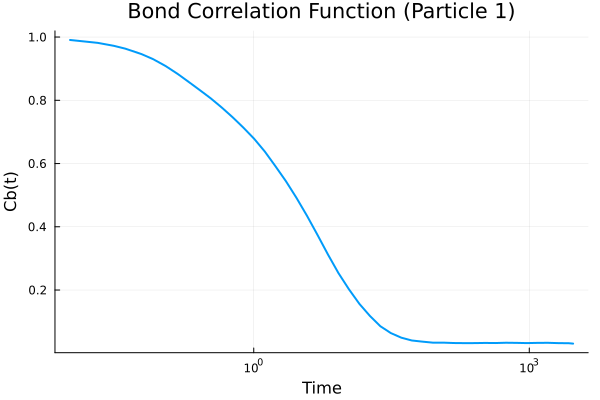
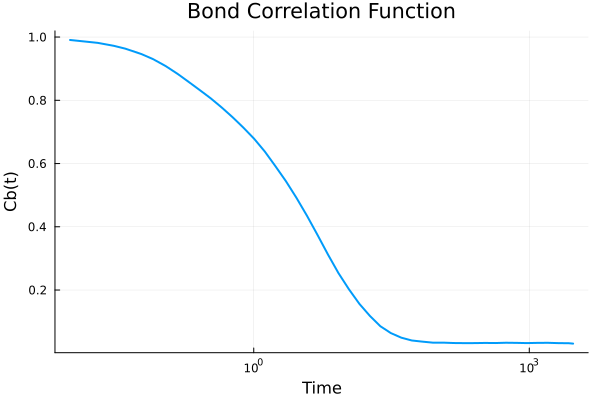
improve docs

Changed region(s): [[0.21, 0.0, 0.87, 0.06]]

diff --git a/docs/src/examples.md b/docs/src/examples.md
@@ -18,7 +18,27 @@ filepath = joinpath(dirname(pathof(SimulationAnalysis)), "..", "test", "data", "
 # construct a Simulation object manually.
 sim = SimulationAnalysis.read_continuously_hard_sphere_simulation(filepath; time_origins=10)
 dt = sim.t_array[2] - sim.t_array[1]
+display(sim)
+println("The number of saved time frames is equal to $(length(sim.t_array)).")
 ```
+```
+This is a SingleComponentSimulation.
+It contains
+N: 1000
+Ndims: 3
+r_array: Array{Float64, 3}
+v_array: Array{Float64, 3}
+F_array: Array{Float64, 3}
+D_array: Vector{Float64}
+t_array: Vector{Float64}
+box_sizes: Vector{Float64}
+dt_array: Vector{Int64}
+t1_t2_pair_array: Vector{Matrix{Int64}}
+filepath: C:\Users\.julia\dev\SimulationAnalysis\src\..\test\data\test_trajectory.h5
+The number of saved time frames is equal to 430.
+```
+
+So as we can see, we have loaded a simulation object of 1000 particles with 430 saved frames, at the time points given by `t_array`.
 
 ---
 
@@ -58,8 +78,10 @@ These functions are used for analyzing the structure and dynamics in reciprocal 
 First, we need to construct the k-space vectors.
 
 ```julia
+# Use only wave vectors with a length between 0 and 10
+kbounds = (0.0, 10.0)
 # Construct the k-space vectors
-kspace = SimulationAnalysis.construct_k_space(sim, (0.0, 10.0); kfactor=1)
+kspace = SimulationAnalysis.construct_k_space(sim, kbounds)
 ```
 ```
 This is a SimulationAnalysis.KSpace{3, SimulationAnalysis.SingleComponentSimulation, OffsetArrays.OffsetArray{Int64, 3, Array{Int64, 3}}}.
@@ -71,7 +93,9 @@ k_array: Matrix{Float64}
 kfactor: 1
 cartesian_to_linear: OffsetArrays.OffsetArray{Int64, 3, Array{Int64, 3}}
 ```
-We can compute the corresponding density modes:
+We can compute the corresponding density modes. These are used to construct scattering functions. They are defines as
+$\rho(k,t)=\sum_j \exp(i \mathbf{k}\cdot\mathbf{r}_j),$
+where the index $j$ runs over all particles.
 ```julia
 density_modes = SimulationAnalysis.find_density_modes(sim, kspace; verbose=false)
 ```
@@ -84,7 +108,7 @@ SingleComponentDensityModes with real and imaginary parts of size (430, 2418).
 The structure factor is the Fourier transform of the radial distribution function and describes the static correlations in the system.
 
 ```julia
-# Calculate the structure factor for a specific k-range
+# Calculate the structure factor averaged over a specific shell in kspace
 S_k = SimulationAnalysis.find_structure_factor(sim; kmin=2.0, kmax=2.4)
 
 println("Structure factor calculated: ", S_k)
@@ -106,6 +130,7 @@ plot(k_sample_arr, S_k,
     lw=2
 )
 ```
+The code above computes the structure factor for each $k_i$ in `k_sample_arr`, averaged over all `k\in (k_i - k_binwidth/2, k_i + k_binwidth/2)`. It produces the following plot:
 
 ![Sk](plots/Sk.png)
 
@@ -133,6 +158,8 @@ plot(dt * sim.dt_array[2:end], isf[2:end],
 )
 ```
 ![Fkt](plots/Fkt.png)
+
+We could have used the precomputed density modes for performance here, see the API documentation.
 
 ### Self-Intermediate Scattering Function (Self-ISF)
 
@@ -178,7 +205,7 @@ Absolute distance neighbor lists calculated for 430 time steps.
 
 This method uses Voronoi tessellation to determine neighbors. 
 
-THIS IS CURRENTLY BROKEN ON JULIA 1.11 (QUICKHULL.jl segfaults)
+THIS IS CURRENTLY BROKEN IN 3D ON JULIA 1.11 (Quickhull.jl segfaults)
 
 ```julia
 # Find neighbor lists using Voronoi tessellation
@@ -196,7 +223,7 @@ Voronoi neighbor lists calculated for 430 time steps.
 The bond correlation function is used to study the dynamics of local structure. It requires neighbor lists as input.
 
 ```julia
-# First, calculate neighbor lists (e.g., Voronoi)
+# First, calculate neighbor lists
 neighborlists = SimulationAnalysis.find_absolute_distance_neighborlists(sim, 2.0)
 
 # Calculate the bond correlation function for each particle
@@ -208,7 +235,7 @@ Cb = sum(Cb_per_particle, dims=2)[:] / size(Cb_per_particle, 2)
 plot(dt*sim.dt_array[2:end], Cb[2:end],
     xlabel="Time",
     ylabel="Cb(t)",
-    title="Bond Correlation Function (Particle 1)",
+    title="Bond Correlation Function",
     legend=false,
     lw=2,
     xscale=:log10
